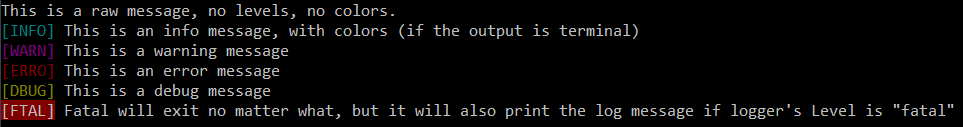
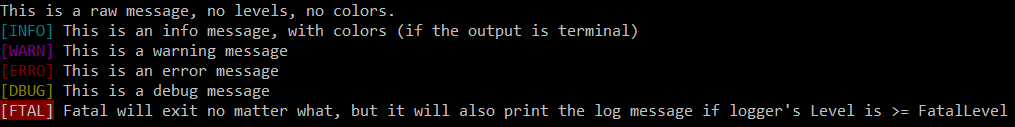
fix some missunderstood code comments

diff --git a/logger.go b/logger.go
@@ -205,58 +205,60 @@ func (l *Logger) Logf(level Level, format string, args ...interface{}) {
 	l.Log(level, msg)
 }
 
-// Fatal `os.Exit(1)` exit no matter the level of the logger, if the logger's  level is FatalLevel
+// Fatal `os.Exit(1)` exit no matter the level of the logger.
+// If the logger's level is fatal, error, warn, info or debug
 // then it will print the log message too.
 func (l *Logger) Fatal(v ...interface{}) {
 	l.Log(FatalLevel, v...)
 }
 
-// Fatalf will `os.Exit(1)` no matter the level of the logger, if the logger's level is FatalLevel
+// Fatalf will `os.Exit(1)` no matter the level of the logger.
+// If the logger's level is fatal, error, warn, info or debug
 // then it will print the log message too.
 func (l *Logger) Fatalf(format string, args ...interface{}) {
 	msg := fmt.Sprintf(format, args...)
 	l.Fatal(msg)
 }
 
-// Error will print only when logger's Level is error.
+// Error will print only when logger's Level is error, warn, info or debug.
 func (l *Logger) Error(v ...interface{}) {
 	l.Log(ErrorLevel, v...)
 }
 
-// Errorf will print only when logger's Level is error.
+// Errorf will print only when logger's Level is error, warn, info or debug.
 func (l *Logger) Errorf(format string, args ...interface{}) {
 	msg := fmt.Sprintf(format, args...)
 	l.Error(msg)
 }
 
-// Warn will print when logger's Level is error, or warning.
+// Warn will print when logger's Level is warn, info or debug.
 func (l *Logger) Warn(v ...interface{}) {
 	l.Log(WarnLevel, v...)
 }
 
-// Warnf will print when logger's Level is error, or warning.
+// Warnf will print when logger's Level is warn, info or debug.
 func (l *Logger) Warnf(format string, args ...interface{}) {
 	msg := fmt.Sprintf(format, args...)
 	l.Warn(msg)
 }
 
-// Info will print when logger's Level is error, warning or info.
+// Info will print when logger's Level is info or debug.
 func (l *Logger) Info(v ...interface{}) {
 	l.Log(InfoLevel, v...)
 }
 
-// Infof will print when logger's Level is error, warning or info.
+// Infof will print when logger's Level is info or debug.
 func (l *Logger) Infof(format string, args ...interface{}) {
 	msg := fmt.Sprintf(format, args...)
 	l.Info(msg)
 }
 
-// Debug will print when logger's Level is error, warning,info or debug.
+// Debug will print when logger's Level is debug.
 func (l *Logger) Debug(v ...interface{}) {
 	l.Log(DebugLevel, v...)
 }
 
-// Debugf will print when logger's Level is error, warning,info or debug.
+// Debugf will print when logger's Level is debug.
 func (l *Logger) Debugf(format string, args ...interface{}) {
 	msg := fmt.Sprintf(format, args...)
 	l.Debug(msg)

diff --git a/golog.go b/golog.go
@@ -87,54 +87,56 @@ func Logf(level Level, format string, args ...interface{}) {
 	Default.Logf(level, format, args...)
 }
 
-// Fatal `os.Exit(1)` exit no matter the level of the logger, if the logger's  level is FatalLevel
+// Fatal `os.Exit(1)` exit no matter the level of the logger.
+// If the logger's level is fatal, error, warn, info or debug
 // then it will print the log message too.
 func Fatal(v ...interface{}) {
 	Default.Fatal(v...)
 }
 
-// Fatalf will `os.Exit(1)` no matter the level of the logger, if the logger's level is FatalLevel
+// Fatalf will `os.Exit(1)` no matter the level of the logger.
+// If the logger's level is fatal, error, warn, info or debug
 // then it will print the log message too.
 func Fatalf(format string, args ...interface{}) {
 	Default.Fatalf(format, args...)
 }
 
-// Error will print only when logger's Level is error.
+// Error will print only when logger's Level is error, warn, info or debug.
 func Error(v ...interface{}) {
 	Default.Error(v...)
 }
 
-// Errorf will print only when logger's Level is error.
+// Errorf will print only when logger's Level is error, warn, info or debug.
 func Errorf(format string, args ...interface{}) {
 	Default.Errorf(format, args...)
 }
 
-// Warn will print when logger's Level is error, or warning.
+// Warn will print when logger's Level is warn, info or debug.
 func Warn(v ...interface{}) {
 	Default.Warn(v...)
 }
 
-// Warnf will print when logger's Level is error, or warning.
+// Warnf will print when logger's Level is warn, info or debug.
 func Warnf(format string, args ...interface{}) {
 	Default.Warnf(format, args...)
 }
 
-// Info will print when logger's Level is error, warning or info.
+// Info will print when logger's Level is info or debug.
 func Info(v ...interface{}) {
 	Default.Info(v...)
 }
 
-// Infof will print when logger's Level is error, warning or info.
+// Infof will print when logger's Level is info or debug.
 func Infof(format string, args ...interface{}) {
 	Default.Infof(format, args...)
 }
 
-// Debug will print when logger's Level is error, warning,info or debug.
+// Debug will print when logger's Level is debug.
 func Debug(v ...interface{}) {
 	Default.Debug(v...)
 }
 
-// Debugf will print when logger's Level is error, warning,info or debug.
+// Debugf will print when logger's Level is debug.
 func Debugf(format string, args ...interface{}) {
 	Default.Debugf(format, args...)
 }

diff --git a/level.go b/level.go
@@ -11,18 +11,19 @@ type Level uint32
 
 // The available built'n log levels, users can add or modify a level via `Levels` field.
 const (
-	// DisableLevel will disable the printer
+	// DisableLevel will disable the printer.
 	DisableLevel Level = iota
-	// FatalLevel will `os.Exit(1)` no matter the level of the logger, if the logger's level is FatalLevel
+	// FatalLevel will `os.Exit(1)` no matter the level of the logger.
+	// If the logger's level is fatal, error, warn, info or debug
 	// then it will print the log message too.
 	FatalLevel
-	// ErrorLevel will print only errors
+	// ErrorLevel will print only errors.
 	ErrorLevel
-	// WarnLevel will print errors and warnings
+	// WarnLevel will print errors and warnings.
 	WarnLevel
-	// InfoLevel will print errors, warnings and infos
+	// InfoLevel will print errors, warnings and infos.
 	InfoLevel
-	// DebugLevel will print on any level, errors, warnings, infos and debug messages
+	// DebugLevel will print on any level, fatals, errors, warnings, infos and debug logs.
 	DebugLevel
 )
 
@@ -72,11 +73,9 @@ func fromLevelName(levelName string) Level {
 			return level
 		}
 
-		if len(meta.AlternativeNames) > 0 {
-			for _, altName := range meta.AlternativeNames {
-				if altName == levelName {
-					return level
-				}
+		for _, altName := range meta.AlternativeNames {
+			if altName == levelName {
+				return level
 			}
 		}
 	}

diff --git a/_examples/basic/main.go b/_examples/basic/main.go
@@ -22,5 +22,5 @@ func main() {
 	golog.Warn("This is a warning message")
 	golog.Error("This is an error message")
 	golog.Debug("This is a debug message")
-	golog.Fatal("Fatal will exit no matter what, but it will also print the log message if logger's Level is \"fatal\"")
+	golog.Fatal("Fatal will exit no matter what, but it will also print the log message if logger's Level is >= FatalLevel")
 }

diff --git a/README.md b/README.md
@@ -2,7 +2,7 @@
 
 _golog_ is a simple, fast and easy-to-use level-based logger written entirely in [GoLang](https://golang.org).
 
-[![benchmarks_30_jul_2017](_benchmarks/cmd.png)](_benchmarks)
+![Output from win terminal](screen.png)
 
 [![build status](https://img.shields.io/travis/kataras/golog/master.svg?style=flat-square)](https://travis-ci.org/kataras/golog)
 [![report card](https://img.shields.io/badge/report%20card-a%2B-ff3333.svg?style=flat-square)](http://goreportcard.com/report/kataras/golog)
@@ -60,15 +60,9 @@ func main() {
     golog.Warn("This is a warning message")
     golog.Error("This is an error message")
     golog.Debug("This is a debug message")
-    golog.Fatal("Fatal will exit no matter what, but it will also print the log message if logger's Level is \"fatal\"")
+    golog.Fatal("Fatal will exit no matter what, but it will also print the log message if logger's Level is >=FatalLevel")
 }
 ```
-
-```bash 
-$ go run main.go
-```
-![Output from win terminal](screen.png)
-
 
 ### 🔥 Benchmarks
 
@@ -91,6 +85,7 @@ If you find that something is not working as expected please open an [issue](htt
 
 > Do not hesitate to put your package on this list via [PR](https://github.com/kataras/golog/pulls)!
 
+<!--
 ### ⚽ TODO
 
-- [x] Implement a way to be able to add custom levels with the full power of the built'n levels[*](HISTORY.md#su-30-july-2017-v006-v007)
+- [x] Implement a way to be able to add custom levels with the full power of the built'n levels[*](HISTORY.md#su-30-july-2017-v006-v007) -->
